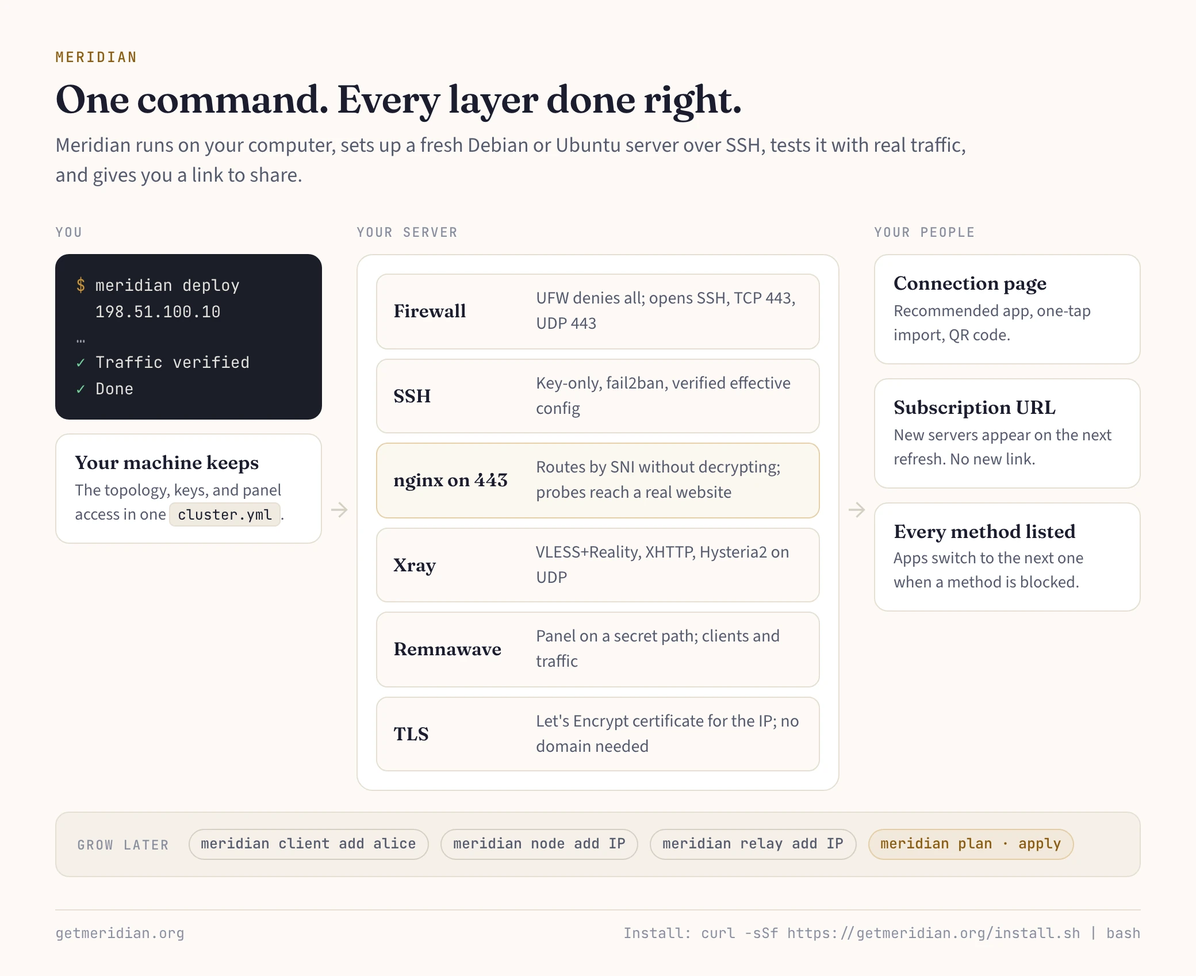
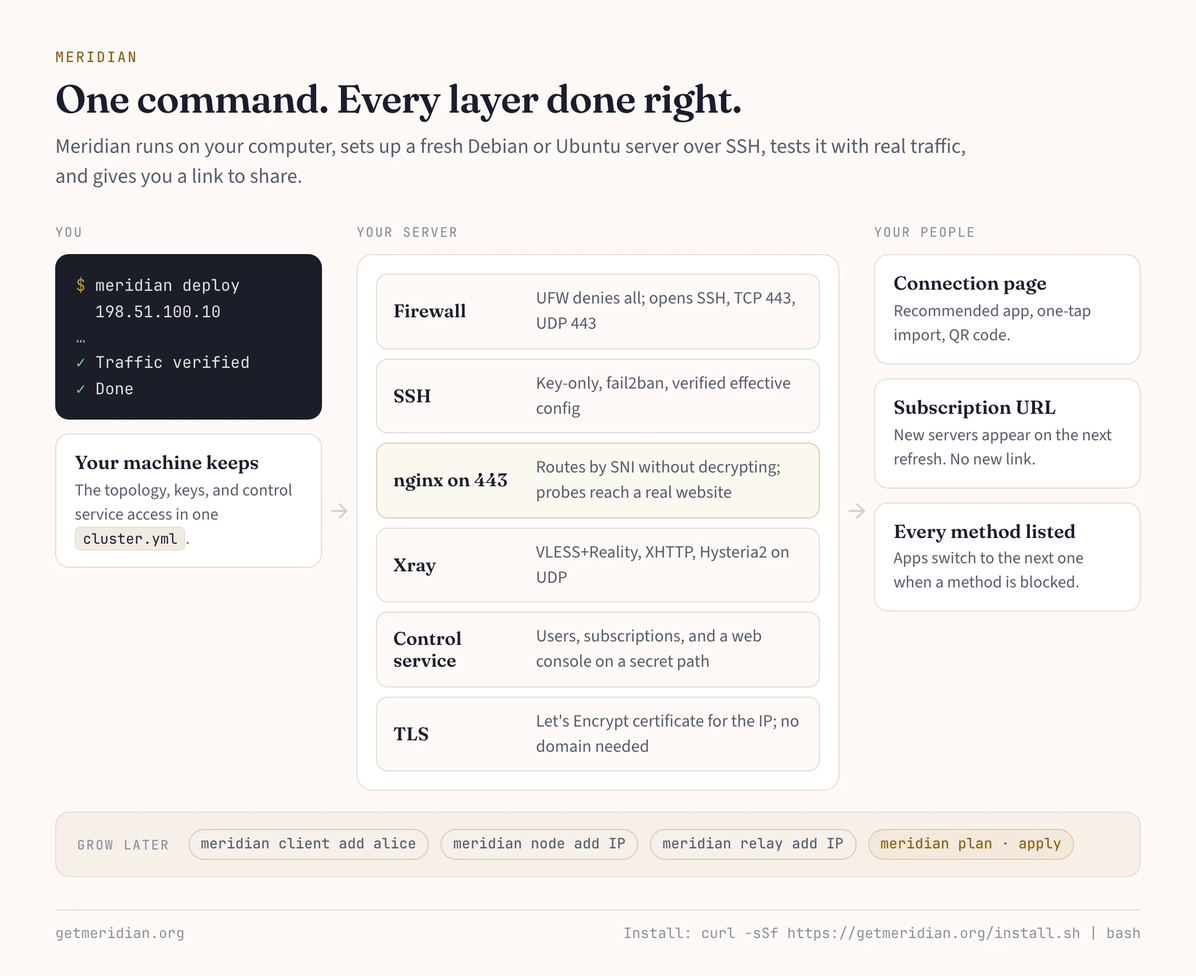
Show the control service on the landing page and images
The landing steps, architecture diagram, deploy terminal, and overview
image name the control service and node agent instead of Remnawave and
Docker.

Refs: getmeridian/meridian#95

diff --git a/website/src/i18n/landing/ru.ts b/website/src/i18n/landing/ru.ts
@@ -36,8 +36,8 @@ export const ru: LandingStrings = {
     'Команду можно спокойно запускать повторно: учётные данные и ключи сохранятся, прерванное развёртывание продолжится, а готовое обновится на месте.',
 
   // Behind-the-scenes timeline (title, then the text that follows it)
-  'step.1.title': 'Устанавливает Docker',
-  'step.1.text': ' и разворачивает <strong>Xray</strong> под управлением панели <strong>Remnawave</strong>',
+  'step.1.title': 'Устанавливает сервис управления',
+  'step.1.text': ' и агент узла, который запускает <strong>Xray</strong>, — без Docker и сторонних панелей',
   'step.2.title': 'Генерирует пару ключей x25519',
   'step.2.text': ' — уникальные ключи шифрования для аутентификации Reality',
   'step.3.title': 'Защищает сервер',
@@ -64,7 +64,7 @@ export const ru: LandingStrings = {
   'builder.tab.doctor': 'Диагностика',
   'builder.tab.teardown': 'Удаление',
   'builder.desc.deploy':
-    'Развёртывание Reality, XHTTP и Hysteria2 на одном сервере. Настраивает Docker, панель Remnawave, nginx, файрвол и TLS.',
+    'Развёртывание Reality, XHTTP и Hysteria2 на одном сервере. Настраивает сервис управления, nginx, файрвол и TLS.',
   'builder.desc.relay':
     'Добавляет промежуточный сервер внутри страны, который пересылает TCP-трафик на выходной сервер за границей. Выходной сервер нужно развернуть заранее.',
   'builder.desc.check':
@@ -181,10 +181,10 @@ export const ru: LandingStrings = {
     'Архитектура Meridian: nginx по SNI направляет TCP 443 на Xray Reality, XHTTP и страницы подключения; Hysteria2 слушает UDP 443',
   'arch.standalone': 'Без домена',
   'arch.standalone.body':
-    "<p><strong>nginx</strong> занимает TCP-порт 443 и модулем stream распределяет соединения по TLS SNI. Соединения Reality идут в <strong>Xray</strong>. Всё остальное попадает в модуль http nginx, который отдаёт страницы подключения, подписки и XHTTP по HTTPS с короткоживущим сертификатом Let's Encrypt для IP сервера (его выпускает acme.sh). <strong>Hysteria2</strong> слушает UDP 443 с обфускацией salamander.</p><p>Панель администратора Remnawave проксируется nginx по секретному пути — доступна по HTTPS, SSH-туннель не нужен.</p>",
+    "<p><strong>nginx</strong> занимает TCP-порт 443 и модулем stream распределяет соединения по TLS SNI. Соединения Reality идут в <strong>Xray</strong>. Всё остальное попадает в модуль http nginx, который отдаёт страницы подключения, подписки и XHTTP по HTTPS с короткоживущим сертификатом Let's Encrypt для IP сервера (его выпускает acme.sh). <strong>Hysteria2</strong> слушает UDP 443 с обфускацией salamander.</p><p><strong>Сервис управления</strong> Meridian работает за nginx по секретному пути: он хранит ваших пользователей, отдаёт их подписки и открывает веб-консоль по HTTPS, SSH-туннель не нужен. Небольшой агент на каждом сервере сам подключается к нему, поэтому узлы не открывают лишних портов.</p>",
   'arch.domain': 'Доменный режим (запасной путь через CDN)',
   'arch.domain.body':
-    "<p>С <code>--domain</code> nginx получает сертификат Let's Encrypt для вашего домена и направляет соединения с этим SNI на способы подключения через домен. XHTTP переезжает на домен, и добавляется <strong>VLESS+WSS</strong>. Если Cloudflare проксирует домен, оба способа идут через CDN и продолжают работать, даже если IP вашего сервера заблокирован. Панель и страницы подключения остаются на сертификате для IP.</p>",
+    "<p>С <code>--domain</code> nginx получает сертификат Let's Encrypt для вашего домена и направляет соединения с этим SNI на способы подключения через домен. XHTTP переезжает на домен, и добавляется <strong>VLESS+WSS</strong>. Если Cloudflare проксирует домен, оба способа идут через CDN и продолжают работать, даже если IP вашего сервера заблокирован. Сервис управления и страницы подключения остаются на сертификате для IP.</p>",
   'arch.relay': 'Промежуточный сервер (точка входа внутри страны)',
   'arch.relay.body':
     '<p>TCP-форвардер <strong>Realm</strong> на сервере внутри вашей страны передаёт соединения на выходной сервер за границей. Через него идёт только Reality; XHTTP, WSS и Hysteria2 по-прежнему подключаются к выходному серверу напрямую. Шифрование сквозное, от приложения до выходного сервера, поэтому промежуточный сервер никогда не видит ваш трафик в открытом виде.</p><p>Добавьте его командой <code>meridian relay add RELAY_IP --exit EXIT</code>. Подписки и страницы подключения подхватывают его автоматически.</p>',

diff --git a/website/src/i18n/landing/fa.ts b/website/src/i18n/landing/fa.ts
@@ -36,8 +36,8 @@ export const fa: LandingStrings = {
     'اجرای دوباره بیخطر است. اجرای دوم اعتبارنامهها و کلیدها را نگه میدارد و استقرار را ادامه میدهد یا در همانجا بهروز میکند.',
 
   // Behind-the-scenes timeline (title, then the text that follows it)
-  'step.1.title': 'نصب Docker',
-  'step.1.text': ' و استقرار <strong>Xray</strong> با مدیریت پنل <strong>Remnawave</strong>',
+  'step.1.title': 'نصب سرویس کنترل',
+  'step.1.text': ' و agent گره که <strong>Xray</strong> را اجرا میکند، بدون Docker و بدون پنل شخص ثالث',
   'step.2.title': 'ساخت جفتکلید x25519',
   'step.2.text': ' — کلیدهای رمزنگاری یکتا برای احراز هویت Reality',
   'step.3.title': 'مقاومسازی سرور',
@@ -64,7 +64,7 @@ export const fa: LandingStrings = {
   'builder.tab.doctor': 'عیبیابی',
   'builder.tab.teardown': 'حذف',
   'builder.desc.deploy':
-    'استقرار Reality، XHTTP و Hysteria2 روی یک سرور. Docker، پنل Remnawave، nginx، فایروال و TLS را راهاندازی میکند.',
+    'استقرار Reality، XHTTP و Hysteria2 روی یک سرور. سرویس کنترل، nginx، فایروال و TLS را راهاندازی میکند.',
   'builder.desc.relay':
     'یک رله TCP روی سروری داخل کشور اضافه میکند که ترافیک را به سرور خروجی در خارج از کشور هدایت میکند. سرور خروجی باید از قبل مستقر شده باشد.',
   'builder.desc.check':
@@ -175,10 +175,10 @@ export const fa: LandingStrings = {
     'معماری Meridian: nginx اتصالهای TCP 443 را بر اساس SNI به Xray Reality، XHTTP و صفحههای اتصال هدایت میکند؛ Hysteria2 روی UDP 443 گوش میدهد',
   'arch.standalone': 'حالت مستقل (بدون دامنه)',
   'arch.standalone.body':
-    "<p><strong>nginx</strong> مالک پورت TCP 443 است و اتصالها را با ماژول stream خود بر اساس SNI در TLS هدایت میکند. اتصالهای Reality به <strong>Xray</strong> میروند. بقیه به ماژول http در nginx میرسند که صفحههای اتصال، اشتراکها و XHTTP را روی HTTPS ارائه میدهد، با یک گواهی کوتاهمدت Let's Encrypt برای IP سرور (صادرشده با acme.sh). <strong>Hysteria2</strong> روی UDP 443 با مبهمسازی salamander گوش میدهد.</p><p>پنل مدیریت Remnawave را nginx روی یک مسیر مخفی بهصورت پراکسی معکوس ارائه میکند — از طریق HTTPS در دسترس است و به تونل SSH نیازی نیست.</p>",
+    "<p><strong>nginx</strong> مالک پورت TCP 443 است و اتصالها را با ماژول stream خود بر اساس SNI در TLS هدایت میکند. اتصالهای Reality به <strong>Xray</strong> میروند. بقیه به ماژول http در nginx میرسند که صفحههای اتصال، اشتراکها و XHTTP را روی HTTPS ارائه میدهد، با یک گواهی کوتاهمدت Let's Encrypt برای IP سرور (صادرشده با acme.sh). <strong>Hysteria2</strong> روی UDP 443 با مبهمسازی salamander گوش میدهد.</p><p><strong>سرویس کنترل</strong> Meridian پشت nginx روی یک مسیر مخفی قرار دارد: کاربران شما را نگه میدارد، اشتراکهایشان را ارائه میکند و یک کنسول وب دارد که از طریق HTTPS در دسترس است و به تونل SSH نیازی ندارد. یک agent کوچک روی هر سرور خودش به آن وصل میشود، پس گرهها پورت اضافهای باز نمیکنند.</p>",
   'arch.domain': 'حالت دامنه (جایگزین CDN)',
   'arch.domain.body':
-    "<p>با <code>--domain</code>، nginx برای دامنهٔ شما گواهی Let's Encrypt میگیرد و آن SNI را به مسیرهای دامنه هدایت میکند. XHTTP به دامنه منتقل میشود و <strong>VLESS+WSS</strong> اضافه میشود. وقتی Cloudflare دامنه را پراکسی کند، هر دو از CDN عبور میکنند و حتی اگر IP سرور شما مسدود شود کار میکنند. پنل و صفحههای اتصال روی گواهی IP میمانند.</p>",
+    "<p>با <code>--domain</code>، nginx برای دامنهٔ شما گواهی Let's Encrypt میگیرد و آن SNI را به مسیرهای دامنه هدایت میکند. XHTTP به دامنه منتقل میشود و <strong>VLESS+WSS</strong> اضافه میشود. وقتی Cloudflare دامنه را پراکسی کند، هر دو از CDN عبور میکنند و حتی اگر IP سرور شما مسدود شود کار میکنند. سرویس کنترل و صفحههای اتصال روی گواهی IP میمانند.</p>",
   'arch.relay': 'حالت رله (نقطهٔ ورود داخلی)',
   'arch.relay.body':
     '<p>یک فورواردر TCP از نوع <strong>Realm</strong> روی سروری داخل کشور شما، اتصالها را به سرور خروجی شما در خارج منتقل میکند. رلهها فقط Reality را حمل میکنند؛ XHTTP، WSS و Hysteria2 همچنان مستقیم به سرور خروجی وصل میشوند. رمزنگاری سرتاسری بین برنامه و سرور خروجی برقرار است، پس رله هرگز متن آشکار را نمیبیند.</p><p>با <code>meridian relay add RELAY_IP --exit EXIT</code> یکی اضافه کنید. اشتراکها و صفحههای اتصال ورودیهای رله را خودکار برمیدارند.</p>',

diff --git a/website/src/i18n/landing/en.ts b/website/src/i18n/landing/en.ts
@@ -41,8 +41,8 @@ export const en = {
     'Safe to re-run. A second run keeps credentials and keys, and resumes or updates the deployment in place.',
 
   // Behind-the-scenes timeline (title, then the text that follows it)
-  'step.1.title': 'Installs Docker',
-  'step.1.text': ' and deploys <strong>Xray</strong> managed by the <strong>Remnawave</strong> panel',
+  'step.1.title': 'Installs the control service',
+  'step.1.text': ' and a node agent that runs <strong>Xray</strong> — no Docker, no third-party panel',
   'step.2.title': 'Generates x25519 keypair',
   'step.2.text': ' — unique encryption keys for Reality authentication',
   'step.3.title': 'Hardens the server',
@@ -69,7 +69,7 @@ export const en = {
   'builder.tab.doctor': 'Doctor',
   'builder.tab.teardown': 'Teardown',
   'builder.desc.deploy':
-    'Deploy Reality, XHTTP, and Hysteria2 on one server. Sets up Docker, the Remnawave panel, nginx, the firewall, and TLS.',
+    'Deploy Reality, XHTTP, and Hysteria2 on one server. Sets up the control service, nginx, the firewall, and TLS.',
   'builder.desc.relay':
     'Add a TCP relay on a domestic server that forwards to an exit abroad. The exit must be deployed first.',
   'builder.desc.check':
@@ -180,10 +180,10 @@ export const en = {
     'Meridian architecture: nginx routes TCP 443 by SNI to Xray Reality, XHTTP, and the connection pages; Hysteria2 listens on UDP 443',
   'arch.standalone': 'Standalone mode (no domain)',
   'arch.standalone.body':
-    "<p><strong>nginx</strong> owns TCP port 443 and routes connections by TLS SNI with its stream module. Reality connections go to <strong>Xray</strong>. Everything else reaches nginx's http module, which serves the connection pages, subscriptions, and XHTTP over HTTPS with a short-lived Let's Encrypt certificate for the server's IP (issued by acme.sh). <strong>Hysteria2</strong> listens on UDP 443 with salamander obfuscation.</p><p>The Remnawave admin panel is reverse-proxied by nginx on a secret path — accessible via HTTPS, no SSH tunnel needed.</p>",
+    "<p><strong>nginx</strong> owns TCP port 443 and routes connections by TLS SNI with its stream module. Reality connections go to <strong>Xray</strong>. Everything else reaches nginx's http module, which serves the connection pages, subscriptions, and XHTTP over HTTPS with a short-lived Let's Encrypt certificate for the server's IP (issued by acme.sh). <strong>Hysteria2</strong> listens on UDP 443 with salamander obfuscation.</p><p>Meridian's <strong>control service</strong> sits behind nginx on a secret path: it keeps your users, serves their subscriptions, and hosts a web console reachable over HTTPS, no SSH tunnel needed. A small agent on each server dials out to it, so nodes open no extra ports.</p>",
   'arch.domain': 'Domain mode (CDN fallback)',
   'arch.domain.body':
-    "<p>With <code>--domain</code>, nginx gets a Let's Encrypt certificate for your domain and routes that SNI to the domain's paths. XHTTP moves to the domain and <strong>VLESS+WSS</strong> is added. With Cloudflare proxying the domain, both travel through the CDN and keep working if your server's IP is blocked. The panel and connection pages stay on the IP certificate.</p>",
+    "<p>With <code>--domain</code>, nginx gets a Let's Encrypt certificate for your domain and routes that SNI to the domain's paths. XHTTP moves to the domain and <strong>VLESS+WSS</strong> is added. With Cloudflare proxying the domain, both travel through the CDN and keep working if your server's IP is blocked. The control service and connection pages stay on the IP certificate.</p>",
   'arch.relay': 'Relay mode (domestic entry point)',
   'arch.relay.body':
     '<p>A <strong>Realm</strong> TCP forwarder on a server inside your country passes connections to your exit abroad. Relays carry Reality only; XHTTP, WSS, and Hysteria2 still connect to the exit directly. Encryption runs end to end between the app and the exit, so the relay never sees plaintext.</p><p>Add one with <code>meridian relay add RELAY_IP --exit EXIT</code>. Subscriptions and connection pages pick up the relay entries automatically.</p>',

diff --git a/website/src/i18n/landing/zh.ts b/website/src/i18n/landing/zh.ts
@@ -36,8 +36,8 @@ export const zh: LandingStrings = {
     '可放心重复运行。再次运行会保留凭证和密钥，并就地继续或更新部署。',
 
   // Behind-the-scenes timeline (title, then the text that follows it)
-  'step.1.title': '安装 Docker',
-  'step.1.text': '，并部署由 <strong>Remnawave</strong> 面板管理的 <strong>Xray</strong>',
+  'step.1.title': '安装控制服务',
+  'step.1.text': '，以及运行 <strong>Xray</strong> 的节点 agent，无需 Docker 或第三方面板',
   'step.2.title': '生成 x25519 密钥对',
   'step.2.text': '——为 Reality 认证生成唯一的加密密钥',
   'step.3.title': '加固服务器',
@@ -64,7 +64,7 @@ export const zh: LandingStrings = {
   'builder.tab.doctor': '诊断',
   'builder.tab.teardown': '卸载',
   'builder.desc.deploy':
-    '在一台服务器上部署 Reality、XHTTP 和 Hysteria2。会配置 Docker、Remnawave 面板、nginx、防火墙和 TLS。',
+    '在一台服务器上部署 Reality、XHTTP 和 Hysteria2。会配置控制服务、nginx、防火墙和 TLS。',
   'builder.desc.relay':
     '在境内服务器上添加 TCP 中继，转发到境外的出口服务器。必须先部署出口服务器。',
   'builder.desc.check':
@@ -175,10 +175,10 @@ export const zh: LandingStrings = {
     'Meridian 架构：nginx 按 SNI 将 TCP 443 路由到 Xray Reality、XHTTP 和连接页面；Hysteria2 监听 UDP 443',
   'arch.standalone': '独立模式（无域名）',
   'arch.standalone.body':
-    '<p><strong>nginx</strong> 占用 TCP 443 端口，并通过其 stream 模块按 TLS SNI 路由连接。Reality 连接交给 <strong>Xray</strong>。其余连接进入 nginx 的 http 模块，由它通过 HTTPS 提供连接页面、订阅和 XHTTP，使用的是为服务器 IP 签发的短期 Let\'s Encrypt 证书（由 acme.sh 签发）。<strong>Hysteria2</strong> 监听 UDP 443，并启用 salamander 混淆。</p><p>Remnawave 管理面板由 nginx 在一条秘密路径上反向代理，可直接通过 HTTPS 访问，无需 SSH 隧道。</p>',
+    '<p><strong>nginx</strong> 占用 TCP 443 端口，并通过其 stream 模块按 TLS SNI 路由连接。Reality 连接交给 <strong>Xray</strong>。其余连接进入 nginx 的 http 模块，由它通过 HTTPS 提供连接页面、订阅和 XHTTP，使用的是为服务器 IP 签发的短期 Let\'s Encrypt 证书（由 acme.sh 签发）。<strong>Hysteria2</strong> 监听 UDP 443，并启用 salamander 混淆。</p><p>Meridian 的<strong>控制服务</strong>位于 nginx 后的一条秘密路径上：它保存你的用户、提供订阅，并提供可通过 HTTPS 直接访问的网页控制台，无需 SSH 隧道。每台服务器上的小型 agent 主动连接它，因此节点不会开放额外端口。</p>',
   'arch.domain': '域名模式（CDN 备用）',
   'arch.domain.body':
-    '<p>使用 <code>--domain</code> 时，nginx 会为你的域名获取 Let\'s Encrypt 证书，并将该 SNI 路由到域名对应的路径。XHTTP 移到域名上，并新增 <strong>VLESS+WSS</strong>。如果由 Cloudflare 代理该域名，两者都经由 CDN 传输，即使服务器 IP 被封锁也能继续使用。面板和连接页面仍使用 IP 证书。</p>',
+    '<p>使用 <code>--domain</code> 时，nginx 会为你的域名获取 Let\'s Encrypt 证书，并将该 SNI 路由到域名对应的路径。XHTTP 移到域名上，并新增 <strong>VLESS+WSS</strong>。如果由 Cloudflare 代理该域名，两者都经由 CDN 传输，即使服务器 IP 被封锁也能继续使用。控制服务和连接页面仍使用 IP 证书。</p>',
   'arch.relay': '中继模式（境内入口）',
   'arch.relay.body':
     '<p>境内服务器上的 <strong>Realm</strong> TCP 转发器会把连接转交给你位于境外的出口服务器。中继只承载 Reality；XHTTP、WSS 和 Hysteria2 仍直接连接出口服务器。加密在应用与出口服务器之间端到端进行，因此中继看不到明文。</p><p>用 <code>meridian relay add RELAY_IP --exit EXIT</code> 添加中继。订阅和连接页面会自动包含中继条目。</p>',

diff --git a/website/figures/img--overview.html b/website/figures/img--overview.html
@@ -31,7 +31,7 @@
       <div class="col">
         <div class="label">You</div>
         <div class="term"><span class="p">$</span> meridian deploy<br>&nbsp;&nbsp;198.51.100.10<br><span class="dim">…</span><br><span class="ok">✓</span> Traffic verified<br><span class="ok">✓</span> Done</div>
-        <div class="card" style="padding:14px 16px"><h4 style="font:600 16.5px/1.25 var(--heading)">Your machine keeps</h4><p style="font-size:14.5px;margin-top:3px">The topology, keys, and panel access in one <code>cluster.yml</code>.</p></div>
+        <div class="card" style="padding:14px 16px"><h4 style="font:600 16.5px/1.25 var(--heading)">Your machine keeps</h4><p style="font-size:14.5px;margin-top:3px">The topology, keys, and control service access in one <code>cluster.yml</code>.</p></div>
       </div>
       <div class="arrow">→</div>
       <div class="col">
@@ -41,7 +41,7 @@
           <div class="layer"><b>SSH</b><span>Key-only, fail2ban, verified effective config</span></div>
           <div class="layer hl"><b>nginx on 443</b><span>Routes by SNI without decrypting; probes reach a real website</span></div>
           <div class="layer"><b>Xray</b><span>VLESS+Reality, XHTTP, Hysteria2 on UDP</span></div>
-          <div class="layer"><b>Remnawave</b><span>Panel on a secret path; clients and traffic</span></div>
+          <div class="layer"><b>Control service</b><span>Users, subscriptions, and a web console on a secret path</span></div>
           <div class="layer"><b>TLS</b><span>Let's Encrypt certificate for the IP; no domain needed</span></div>
         </div>
       </div>
